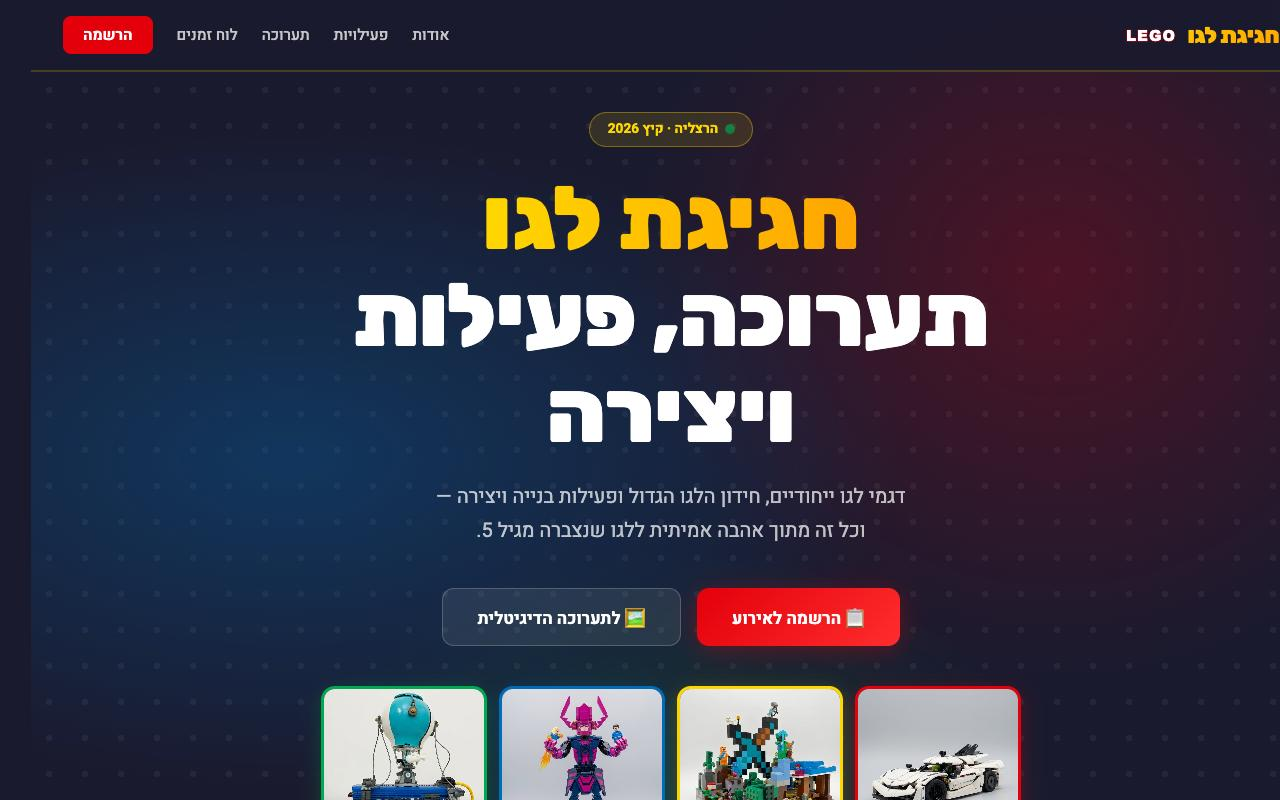
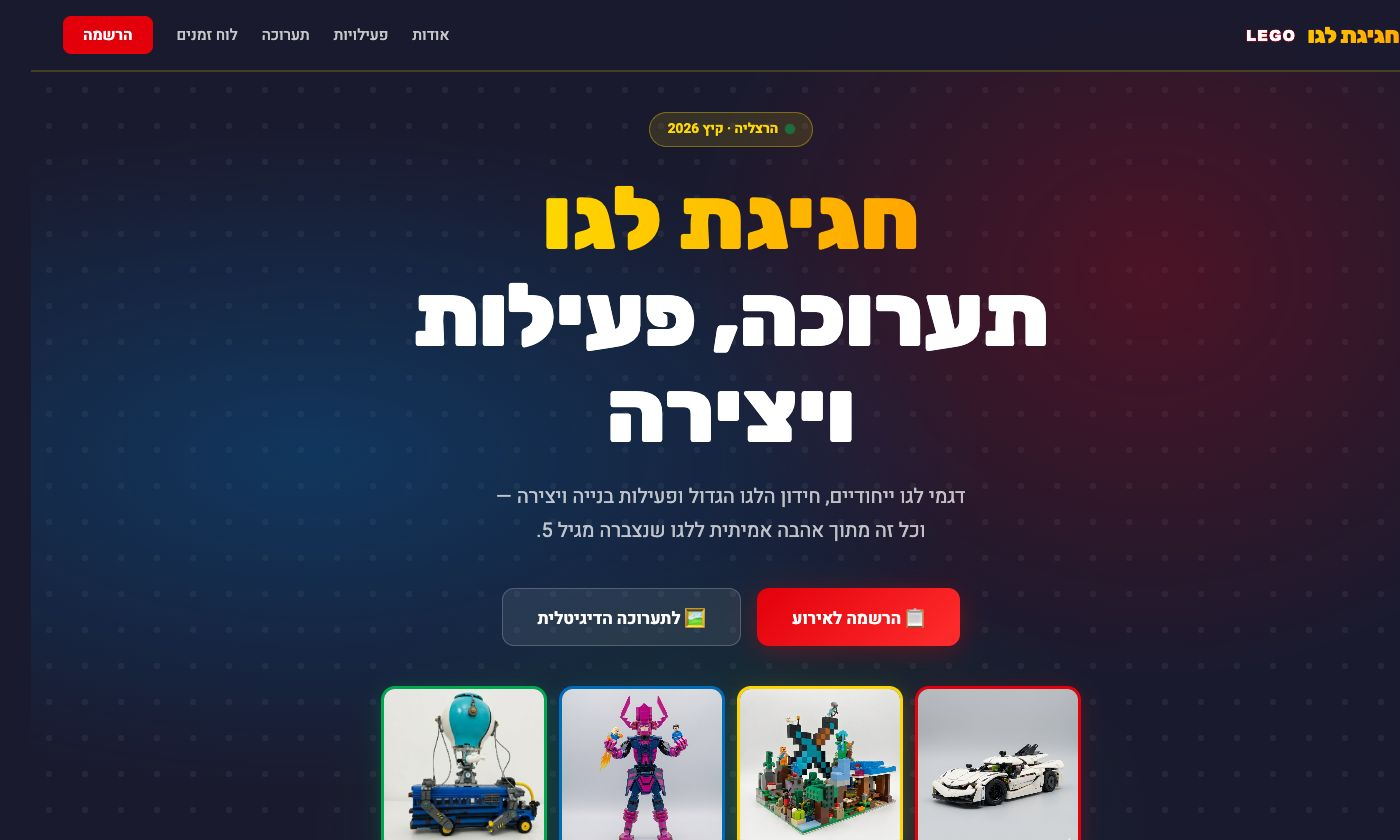
Reshoot project previews with tighter aspect ratio
- New screenshots at 1400×840 (wider) instead of 1280×800
- Card aspect ratio changed from 1.6:1 to 1.67:1 (tighter top-focused crop)
- Crops out empty bottom space on SPOT, HairMatch, Horse Fashion

diff --git a/index.html b/index.html
@@ -3196,7 +3196,7 @@
         </div>
         <div class="proj-grid">
             <a href="https://ai-lab.co.il/build-pc/" target="_blank" rel="noopener" class="proj-card">
-                <div class="proj-preview"><img src="/project-previews/build-pc.jpg" alt="BUILD PC" loading="lazy" decoding="async" width="1280" height="800"></div>
+                <div class="proj-preview"><img src="/project-previews/build-pc.jpg" alt="BUILD PC" loading="lazy" decoding="async" width="1400" height="840"></div>
                 <div class="proj-info">
                     <div class="proj-name">🖥 BUILD PC — השווה, חסוך, שדרג</div>
                     <div class="proj-student">רואי, בן 13</div>
@@ -3204,7 +3204,7 @@
                 </div>
             </a>
             <a href="https://ai-lab.co.il/spot/" target="_blank" rel="noopener" class="proj-card">
-                <div class="proj-preview"><img src="/project-previews/spot.jpg" alt="SPOT - כל כלב ביומו" loading="lazy" decoding="async" width="1280" height="800"></div>
+                <div class="proj-preview"><img src="/project-previews/spot.jpg" alt="SPOT - כל כלב ביומו" loading="lazy" decoding="async" width="1400" height="840"></div>
                 <div class="proj-info">
                     <div class="proj-name">🐕 SPOT — כל כלב ביומו</div>
                     <div class="proj-student">מתן, בן 10</div>
@@ -3212,7 +3212,7 @@
                 </div>
             </a>
             <a href="https://ai-lab.co.il/free-movie-trailers/" target="_blank" rel="noopener" class="proj-card">
-                <div class="proj-preview"><img src="/project-previews/free-movie-trailers.jpg" alt="Free Movie Trailers" loading="lazy" decoding="async" width="1280" height="800"></div>
+                <div class="proj-preview"><img src="/project-previews/free-movie-trailers.jpg" alt="Free Movie Trailers" loading="lazy" decoding="async" width="1400" height="840"></div>
                 <div class="proj-info">
                     <div class="proj-name">🎬 Free Movie Trailers</div>
                     <div class="proj-student">תאיי, בן 12</div>
@@ -3220,7 +3220,7 @@
                 </div>
             </a>
             <a href="https://ai-lab.co.il/trendsaver/" target="_blank" rel="noopener" class="proj-card">
-                <div class="proj-preview"><img src="/project-previews/trendsaver.jpg" alt="TrendSaver" loading="lazy" decoding="async" width="1280" height="800"></div>
+                <div class="proj-preview"><img src="/project-previews/trendsaver.jpg" alt="TrendSaver" loading="lazy" decoding="async" width="1400" height="840"></div>
                 <div class="proj-info">
                     <div class="proj-name">📈 TrendSaver — קנה חכם</div>
                     <div class="proj-student">ארבל, בן 12</div>
@@ -3228,7 +3228,7 @@
                 </div>
             </a>
             <a href="https://ai-lab.co.il/nadavlego/" target="_blank" rel="noopener" class="proj-card">
-                <div class="proj-preview"><img src="/project-previews/nadavlego.jpg" alt="חגיגת לגו" loading="lazy" decoding="async" width="1280" height="800"></div>
+                <div class="proj-preview"><img src="/project-previews/nadavlego.jpg" alt="חגיגת לגו" loading="lazy" decoding="async" width="1400" height="840"></div>
                 <div class="proj-info">
                     <div class="proj-name">🧱 חגיגת לגו</div>
                     <div class="proj-student">נדב, בן 10</div>
@@ -3236,7 +3236,7 @@
                 </div>
             </a>
             <a href="https://ai-lab.co.il/hairmatch/" target="_blank" rel="noopener" class="proj-card">
-                <div class="proj-preview"><img src="/project-previews/hairmatch.jpg" alt="HairMatch" loading="lazy" decoding="async" width="1280" height="800"></div>
+                <div class="proj-preview"><img src="/project-previews/hairmatch.jpg" alt="HairMatch" loading="lazy" decoding="async" width="1400" height="840"></div>
                 <div class="proj-info">
                     <div class="proj-name">✨ HairMatch — טיפוח חכם</div>
                     <div class="proj-student">נועם, בת 13.5</div>
@@ -3244,7 +3244,7 @@
                 </div>
             </a>
             <a href="https://ai-lab.co.il/horse-fashion/" target="_blank" rel="noopener" class="proj-card">
-                <div class="proj-preview"><img src="/project-previews/horse-fashion.jpg" alt="Horse Fashion" loading="lazy" decoding="async" width="1280" height="800"></div>
+                <div class="proj-preview"><img src="/project-previews/horse-fashion.jpg" alt="Horse Fashion" loading="lazy" decoding="async" width="1400" height="840"></div>
                 <div class="proj-info">
                     <div class="proj-name">🐴 Horse Fashion</div>
                     <div class="proj-student">שיר, בת 13.5</div>
@@ -3252,7 +3252,7 @@
                 </div>
             </a>
             <a href="https://ai-lab.co.il/gamebuddy/" target="_blank" rel="noopener" class="proj-card">
-                <div class="proj-preview"><img src="/project-previews/gamebuddy.jpg" alt="GameBuddy" loading="lazy" decoding="async" width="1280" height="800"></div>
+                <div class="proj-preview"><img src="/project-previews/gamebuddy.jpg" alt="GameBuddy" loading="lazy" decoding="async" width="1400" height="840"></div>
                 <div class="proj-info">
                     <div class="proj-name">🎮 GameBuddy — שחקנים ביחד</div>
                     <div class="proj-student">אבינועם וגבריאל, בני 13.5</div>
@@ -3260,7 +3260,7 @@
                 </div>
             </a>
             <a href="https://ai-lab.co.il/tennismate/" target="_blank" rel="noopener" class="proj-card">
-                <div class="proj-preview"><img src="/project-previews/tennismate.jpg" alt="TennisMate" loading="lazy" decoding="async" width="1280" height="800"></div>
+                <div class="proj-preview"><img src="/project-previews/tennismate.jpg" alt="TennisMate" loading="lazy" decoding="async" width="1400" height="840"></div>
                 <div class="proj-info">
                     <div class="proj-name">🎾 TennisMate — מצאו שחקני טניס</div>
                     <div class="proj-student">דניאל קהן, בן 13</div>
@@ -3268,7 +3268,7 @@
                 </div>
             </a>
             <a href="https://ai-lab.co.il/drivelog/" target="_blank" rel="noopener" class="proj-card">
-                <div class="proj-preview"><img src="/project-previews/drivelog.jpg" alt="DriveLog" loading="lazy" decoding="async" width="1280" height="800"></div>
+                <div class="proj-preview"><img src="/project-previews/drivelog.jpg" alt="DriveLog" loading="lazy" decoding="async" width="1400" height="840"></div>
                 <div class="proj-info">
                     <div class="proj-name">🚗 DriveLog — ניהול שיעורי נהיגה</div>
                     <div class="proj-student">גבריאל, בן 16</div>
@@ -4267,11 +4267,11 @@
             setTimeout(function() { grid.scrollLeft = 0; }, 100);
         }());
 
-        // ── Projects preview sizing (img 1280×800 aspect) ──
+        // ── Projects preview sizing (tighter 16:10 crop) ──
         function scaleProjectPreviews() {
             document.querySelectorAll('.proj-preview').forEach(wrap => {
                 const w = wrap.offsetWidth;
-                wrap.style.height = Math.round(w * 800 / 1280) + 'px';
+                wrap.style.height = Math.round(w * 0.6) + 'px';
             });
         }
         window.addEventListener('load', scaleProjectPreviews);
